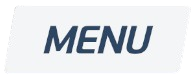
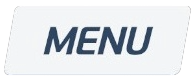
[UPDATE] 이미지 수정
- 인게임 모모톡 아이콘 업데이트로 인한 리소스 수정
- 인연 스토리 진입 후 메뉴 버튼을 인식하지 못하는 오류 해결 (리소스 수정)
- [CMakeLists] 추가 라이브러리 경로 추가

diff --git a/UI/MainViewModel.cs b/UI/MainViewModel.cs
@@ -122,7 +122,7 @@ namespace UI
         // void 대신 async Task를 사용하여 내부에서 await Task.Delay 사용
         private async Task RunMacroLoopAsync(CancellationToken token)
         {
-            _gamePlatform = NativeMethods.Initialize(1);
+            _gamePlatform = NativeMethods.Initialize(0);
             if (_gamePlatform == -1)
             {
                 throw new InvalidOperationException("게임 창을 찾을 수 없음");
